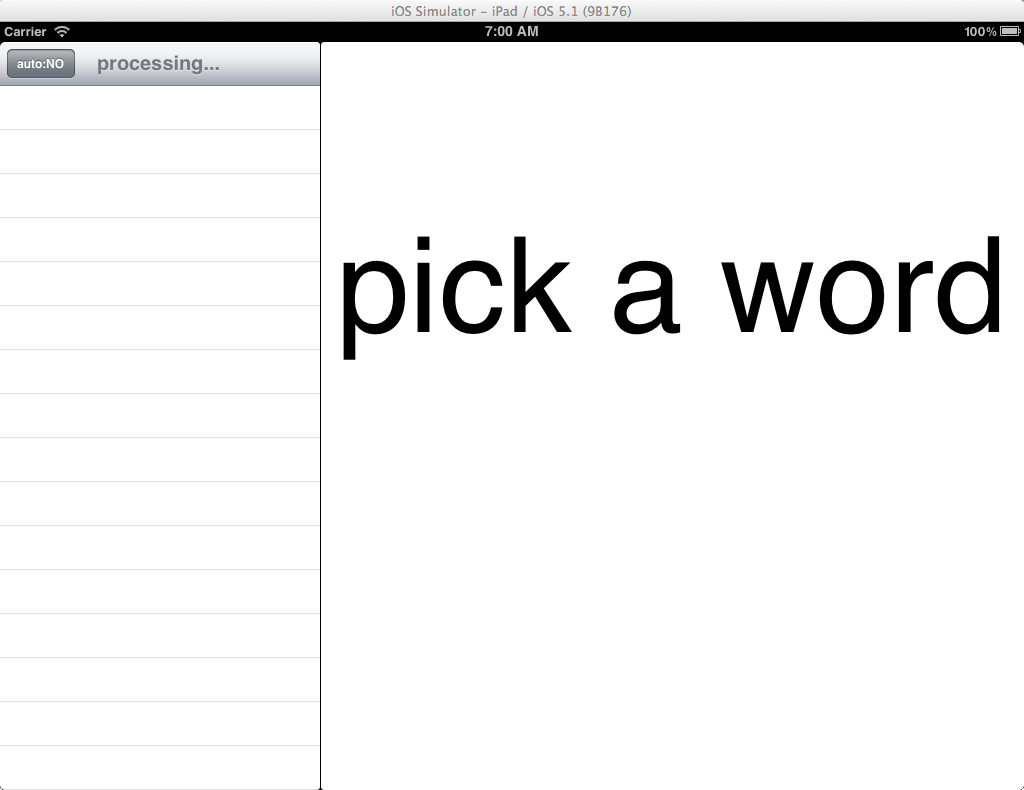
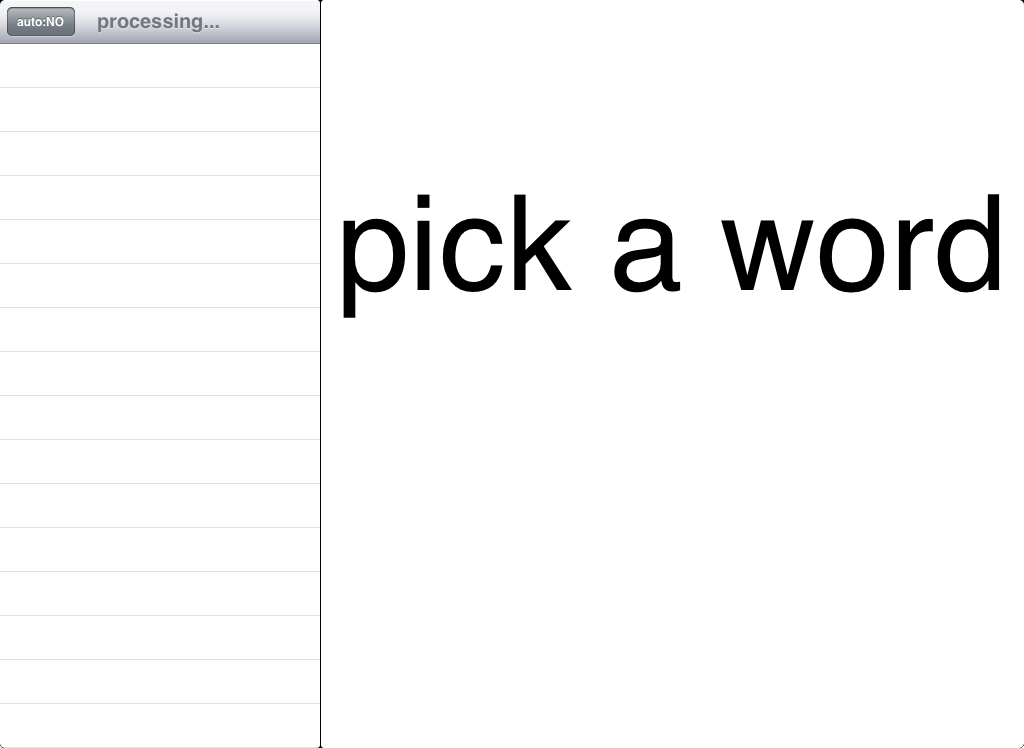
fixed launch images by cropping of the status bars at the top

Changed region(s): [[0.0, 0.0, 1.0, 0.123], [0.5938, 0.246, 1.0, 0.4305], [0.3125, 0.246, 0.5625, 0.4612]]

diff --git a/DDPrototype/DictionaryHelper.m b/DDPrototype/DictionaryHelper.m
@@ -106,6 +106,8 @@
             if (success){
                 completionBlock (dictionaryDatabase); 
                 NSLog(@"Dictionary UIManagedDoc created");
+                [DictionaryHelper saveDictionary:dictionaryDatabase];
+                
             } else {
                 NSLog(@"failed to saveForCreating %@", [dictionaryDatabase.fileURL lastPathComponent]);
             }
@@ -167,6 +169,17 @@
         NSLog(@"No dictionary of that name here!");
     }
     
+}
+
++ (void)saveDictionary:(UIManagedDocument *)dictionary
+{
+    [dictionary saveToURL:dictionary.fileURL forSaveOperation:UIDocumentSaveForOverwriting completionHandler:^ (BOOL success) {
+        if (success) {
+            NSLog(@"Saved Dictionary URL = %@ doc state = %@", [dictionary.fileURL lastPathComponent], [DictionaryHelper stringForState:dictionary.documentState]);
+        } else {
+            NSLog(@"Save failed URL = %@ doc state = %@", [dictionary.fileURL lastPathComponent], [DictionaryHelper stringForState:dictionary.documentState]);
+        };
+    }];
 }
 
 + (void)passActiveDictionary:(UIManagedDocument *)activeDictionary arroundNavBarVCs:(NSArray *)navViewControllers

diff --git a/DDPrototype/DictionaryTableViewController.m b/DDPrototype/DictionaryTableViewController.m
@@ -90,7 +90,7 @@
         UIPopoverController *dsPopoverC = [[UIPopoverController alloc] initWithContentViewController:dsvc];
         self.popoverController = dsPopoverC;
         dsPopoverC.popoverContentSize = CGSizeMake(457, 297);
-        [dsPopoverC presentPopoverFromRect:CGRectMake(self.view.frame.size.width/2, 100, 0, 0) inView:self.splitViewController.view permittedArrowDirections:UIPopoverArrowDirectionAny animated:YES];
+        [dsPopoverC presentPopoverFromRect:CGRectMake(self.view.bounds.size.width/2, 100, 0, 0) inView:self.splitViewController.view permittedArrowDirections:UIPopoverArrowDirectionAny animated:YES];
         [dsPopoverC setDelegate:self];
     }
 }
@@ -122,6 +122,12 @@
 - (BOOL)shouldAutorotateToInterfaceOrientation:(UIInterfaceOrientation)interfaceOrientation
 {
     return YES;
+}
+
+-(void)viewDidLayoutSubviews
+{
+//    [super viewDidLayoutSubviews];
+ //   [self.popoverController 
 }
 
 //- (NSArray *)alphabet

diff --git a/DDPrototype/DictionaryHelper.h b/DDPrototype/DictionaryHelper.h
@@ -30,6 +30,7 @@ typedef void (^completion_block_t)(UIManagedDocument *dictionaryDatabase);
 + (void)getDefaultDictionaryUsingBlock:(completion_block_t)completionBlock;
 + (void)passActiveDictionary:(UIManagedDocument *)activeDictionary arroundVCsIn:(UIViewController *)rootViewController;
 + (void)deleteDictionary:(NSString *)dictionaryName;
++ (void)saveDictionary:(UIManagedDocument *)dictionary;
 + (NSURL *)fileURLForPronunciation:(NSString *)word;
 + (NSString *)dictionaryDisplayNameFrom:(UIManagedDocument *)activeDictionary;
 + (void)numberOfWordsInCoreDataDocument:(UIManagedDocument *)activeDictionary;
